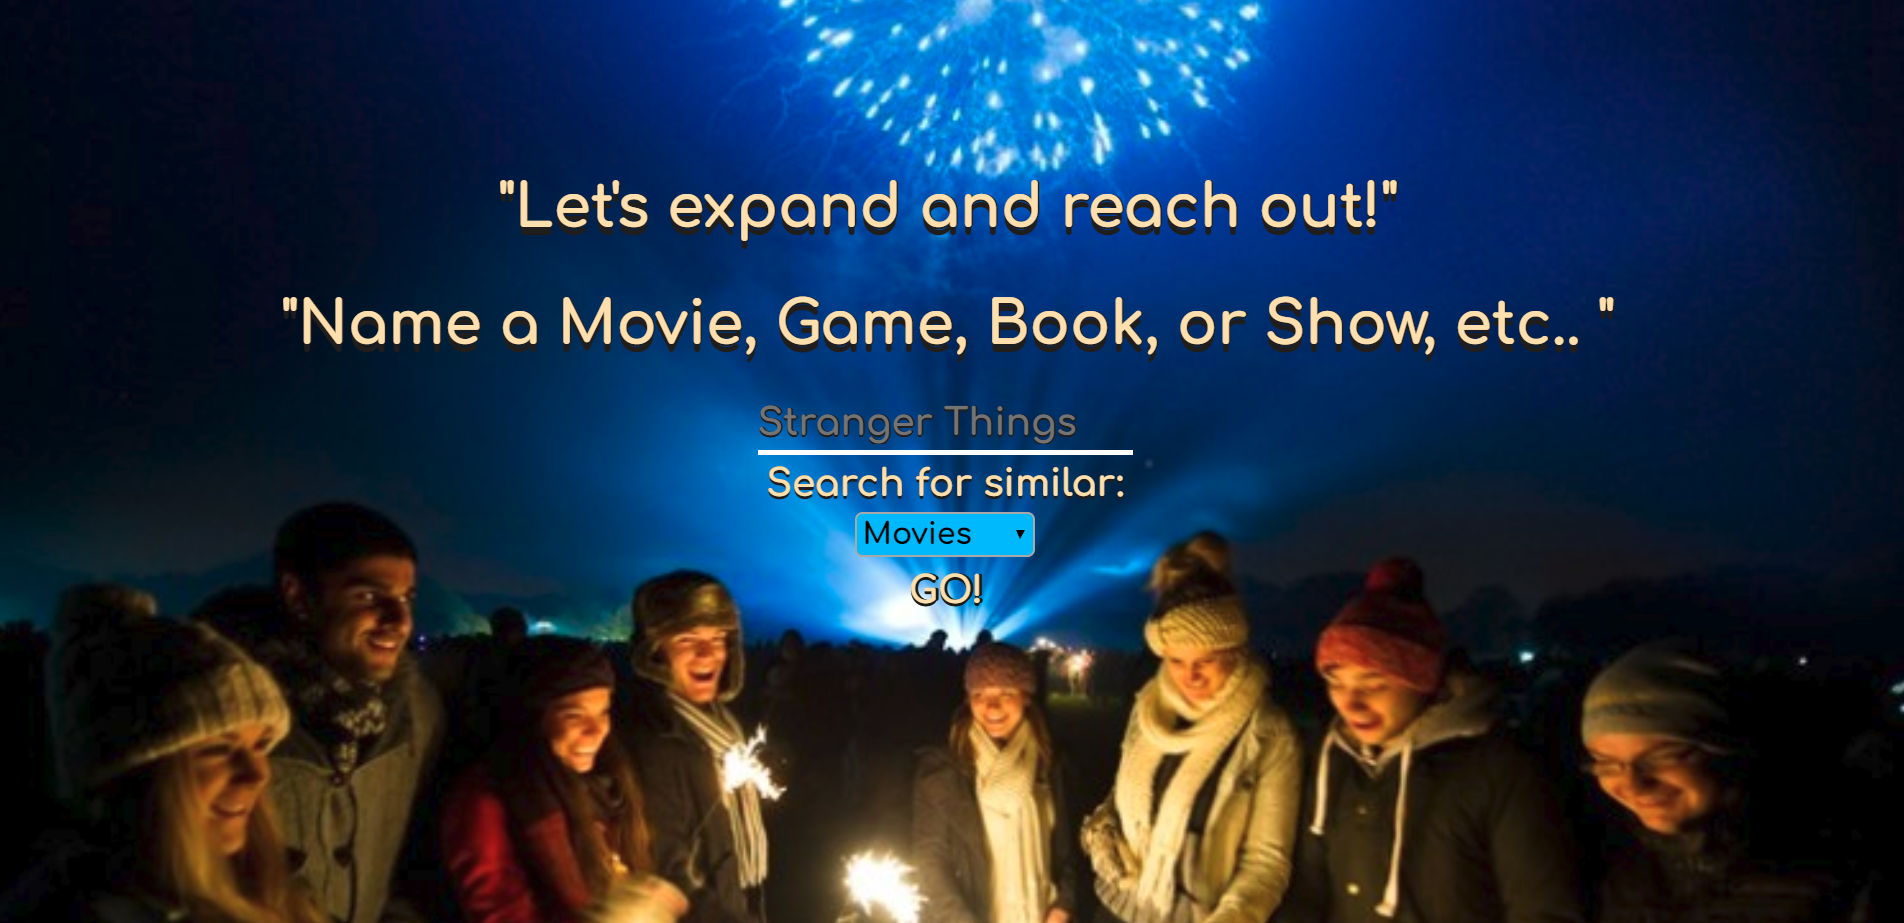
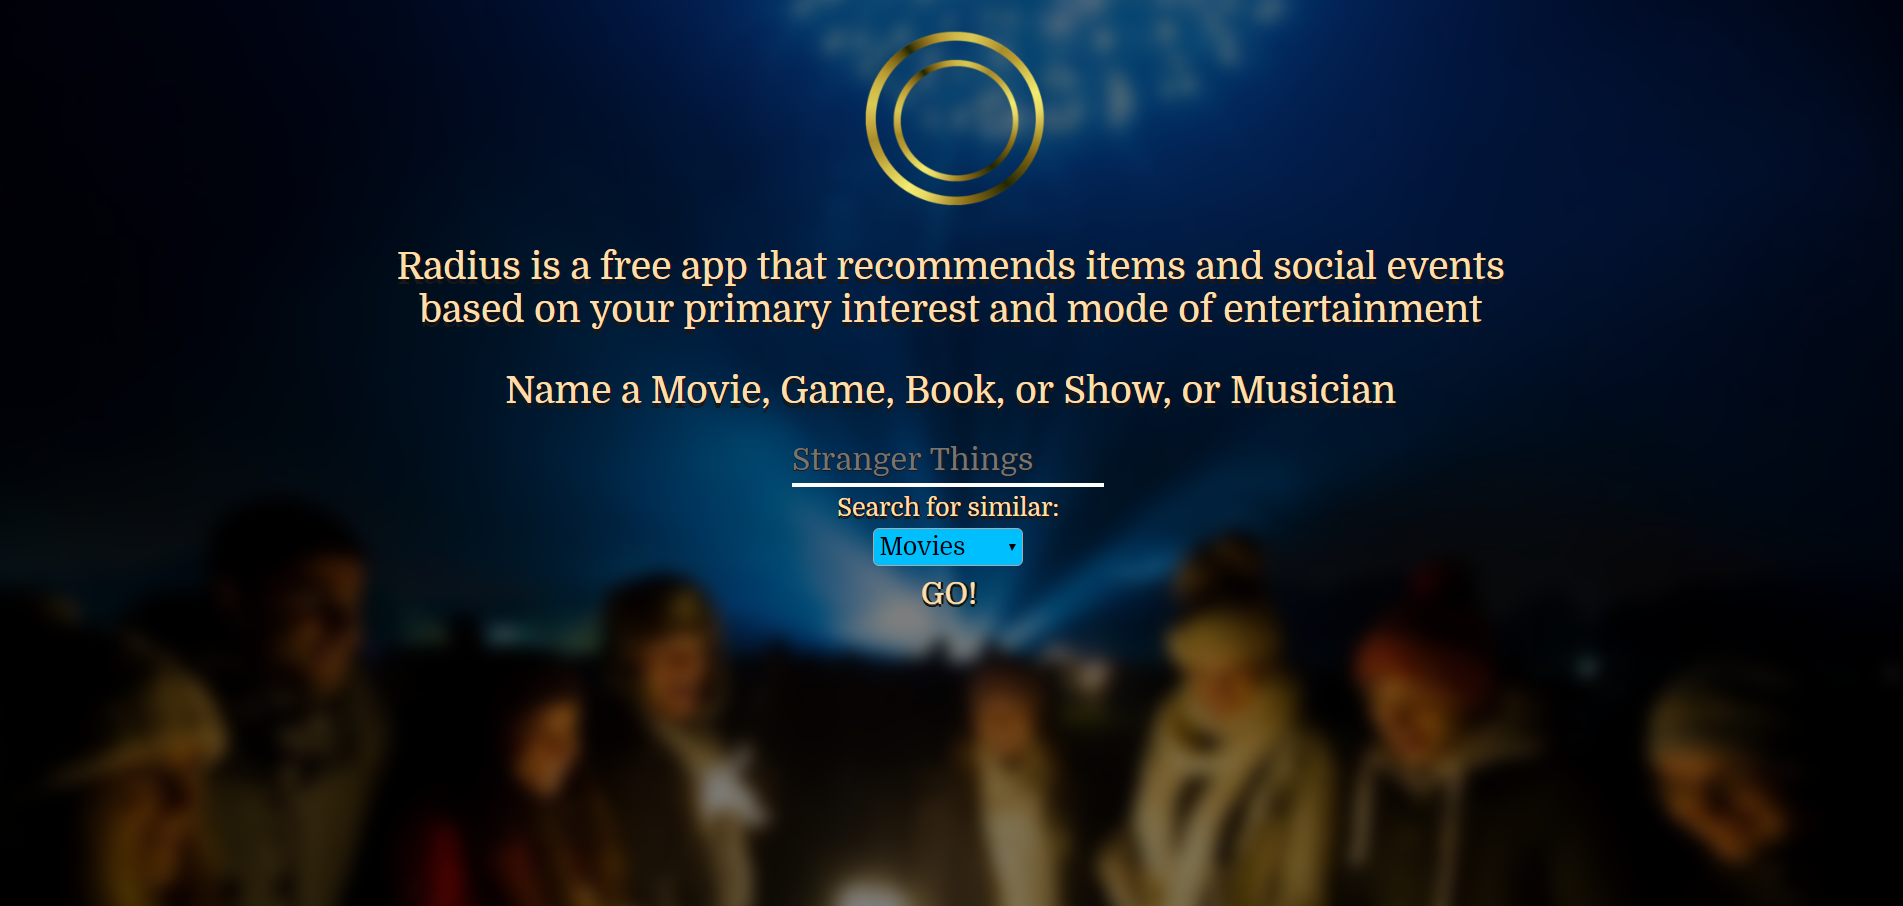
post Reviewer Refactor

diff --git a/test.css b/test.css
@@ -1,39 +1,105 @@
 html {
 	height: 100%;
-	background: url("https://www.liverpoolexpress.co.uk/wp-content/uploads/2014/10/sefton_fireworks-11-750x390.jpg") no-repeat center center fixed; 
+	/*background: url("https://www.liverpoolexpress.co.uk/wp-content/uploads/2014/10/sefton_fireworks-11-750x390.jpg") no-repeat center center fixed;
   	-webkit-background-size: cover;
   	-moz-background-size: cover;
   	-o-background-size: cover;
-  	background-size: cover;
+  	background-size: cover;*/
+
+
 }
 
 *{
 	box-sizing: border-box;
 }
 
+img {
+	width: 160px;
+	height: auto;
+}
+
+header {
+	text-align: center;
+	position: relative;
+	margin-top: 20px;
+}
+
+.back {
+	color: navajowhite;
+    border: solid white 2px;
+    background-color: dodgerblue;
+	padding: 5px 25px 5px;
+	text-decoration: none;
+}
+
 body {
-	height:100%;
 	margin:0;
+}
+
+.page {
+  	background: url('https://www.liverpoolexpress.co.uk/wp-content/uploads/2014/10/sefton_fireworks-11-750x390.jpg')no-repeat center center fixed;
+  	/*-webkit-filter: blur(5px);
+  	-moz-filter: blur(5px);
+  	-o-filter: blur(5px);
+  	-ms-filter: blur(5px);*/
+  	filter: blur(6px);
+  	position: fixed;
+  	width: 100%;
+  	height: 100%;
+  	top: 0;
+  	left: 0;
+  	z-index: -2;
+  	-webkit-background-size: cover;
+  	-moz-background-size: cover;
+  	-o-background-size: cover;
+  	transform: scale(1.1); 
+}
+
+.overlay {
+	position: fixed;
+	z-index: -1;
+	background: rgba(0,0,0,0.5);
+	width: 100%;
+  	height: 100%;
+  	top: 0;
+  	left: 0;
+  	-webkit-background-size: cover;
+  	-moz-background-size: cover;
+  	-o-background-size: cover;
+  	transform: scale(1.1); 
 }
 
 main {
 	text-align: center;
 	height:100%;
+
 }
 
 .content {
-	margin-top: 100px;
 	text-align: center;
 	display: inline-flex;
+	/*border: 4px solid powderblue;
+	border-style: groove;*/
 }
 
-h1, h2 {
-	margin-bottom: 25px;
-	font-family: 'Comfortaa', cursive;
-	font-weight: bold;
-	font-size: 35px;
+h1, h2, h3 {
+	font-family: 'Domine', serif;
+	font-weight: 300;
+	font-size: 30px;
 	color: navajowhite;
-	text-shadow: 1px 0 #1a1717, 0 1px #1a1717, 1px 0 #1a1717, 0 5px #1a1717;
+	text-shadow: 1px 0 #1a1717, 0 1px #1a1717, 1px 0 #1a1717, 0 4px #1a1717;
+	margin-bottom: 0;
+	padding-left: 10px;
+    padding-right: 10px;
+}
+
+h4 {
+	font-weight: 300;
+}
+
+form {
+	margin-top: 20px;
+	padding-bottom: 10px;
 }
 
 input {
@@ -43,7 +109,7 @@ input {
   	border: none;
   	border-bottom: 3px solid white;
   	font-size: 25px;
-	font-family: 'Comfortaa', cursive;
+	font-family: 'Domine', serif;
 	color: #ff4203;
 	margin-bottom: 5px;
 	text-shadow: 1px 0 #1a1717, 0 1px #1a1717, 1px 0 #1a1717, 0 1px #1a1717;
@@ -52,15 +118,15 @@ input {
 .question {
 	color: navajowhite;
 	font-size: 20px;
-	text-shadow: 0px 0 #1a1717, 0 0px #1a1717, 0px 0 #1a1717, 0 2px #1a1717;
-	font-family: 'Comfortaa', cursive;
+	text-shadow: 2px 0 #1a1717, 0 1px #1a1717, 1px 0 #1a1717, 0 2px #1a1717;
+	font-family: 'Domine', serif;
 }
 
 #query-type {
 	height: 30px;
   	width: 120px;
   	margin-top: 5px;
-  	font-family: 'Comfortaa', cursive;
+  	font-family: 'Domine', serif;
   	background-color: deepskyblue;
   	font-size: 20px;
   	color: black;
@@ -81,7 +147,8 @@ input {
 	transform: perspective(1px) translateZ(0);
 	transition-duration: 0.3s;
 	transition-property: box-shadow;
-	font-family: 'Comfortaa', cursive;
+	font-family: 'Domine', serif;
+	font-weight: 300;
 	padding-top: 3px;
 }
 
@@ -95,34 +162,80 @@ input {
 
 }
 
-.taste-results, .meetup-results {
-	font-family: 'Comfortaa', cursive;
-	display: inline-block;
+.q-contain {
+	font-family: 'Domine', serif;
 	color: navajowhite;
     -webkit-text-stroke-color: black;
+    text-align: center;
+    width: max-content;
+    margin: auto;
 }
 
-h3 {
-	text-shadow: 2px 0 #1a1717, 0 2px #1a1717, 2px 0 #1a1717, 0 2px #1a1717;
-}
-
-.indv-result {
+.q-sub {
 	border: solid white 2px;
 	margin: 5px;
 	background-color: black;
 	padding: 0px 5px 5px;
 }
 
-a:link {
+.taste-results, .meetup-results {
+	font-family: 'Domine', serif;
+	display: inline-block;
+	color: navajowhite;
+    -webkit-text-stroke-color: black;
+    width: 350px;
+}
+
+/*h3 {
+	text-shadow: 2px 0 #1a1717, 0 2px #1a1717, 2px 0 #1a1717, 0 2px #1a1717;
+}*/
+
+.indv-result {
+	border: solid white 2px;
+	margin: 5px;
+	background-color: black;
+	padding: 0px 5px 5px;
+	height:125px;
+	position: relative;
+}
+
+.taste-results .indv-result a {
+	left:110px;
+	bottom: 3px;
+}
+
+.meetup-results .indv-result a {
+	left:81px;
+	bottom: 3px;
+}
+
+.indv-result a:link {
 	color:dodgerblue;
+	text-decoration: none;
+	position: absolute;
+}
+
+a:visited {
+	color: red;
+}
+
+.bottom-nav {
+	text-align: center;
+	margin-top: 15px;
+	margin-bottom: 15px;
+}
+
+.bottom-nav a {
+	position: static;
+}
+
+.bottom-nav a:visited {
+	color: navajowhite;
 }
 
 @media only screen and (max-width: 768px) {
 	option {
 		font-size: 15px;
-	}
-	.content {
-		margin-top: 150px;
 	}
 	p {
 		font-size: 20px;
@@ -141,7 +254,6 @@ a:link {
 	}
 	.content {
 		display: block;
-		margin-top: 100px;
 	}
 	h3 {
 		font-size: 25px;

diff --git a/index.html b/index.html
@@ -5,18 +5,29 @@
 	<meta name="viewport" content="width=device-width, initial-scale=1">
 	<meta name="description" content="INSERT SOMETHING HERE">
 	<link href="test.css" rel="stylesheet" type="text/css">
-	<link href="https://fonts.googleapis.com/css?family=Comfortaa:700" rel="stylesheet">
+	<link href="https://fonts.googleapis.com/css?family=Arvo|Domine" rel="stylesheet">
 	<script src="https://code.jquery.com/jquery-3.2.1.min.js"></script>
 </head>
 
 <body>
-	<header roler="banner" class="col-4">
+	<div class="page">
+	</div>
+	<div class="overlay">		
+	</div>
+	<header roler="banner" class="header col-4">
+		<img src="https://i.imgur.com/CUzYjJG.png?1">
 	</header>
 	<main role="main">
+		
+		<div class="q-contain">
+				
+		</div>
+
 		<div class="content col-4">
+
 			<div class="mainContain">	
-				<h1>"Let's expand and reach out!"</h1>
-				<h2>"Name a Movie, Game, Book, or Show, etc.. "</h2>
+				<h1>Radius is a free app that recommends items and social events</br>based on your primary interest and mode of entertainment</h1>
+				<h3>Name a Movie, Game, Book, or Show, or Musician</h3>
 				<form id="search-form" role="form">
 					<label name="query"></label>
 							<input aria-label='Enter search text' type="text" id="js-input" onfocus="this.value=''" placeholder="" required /> </br>
@@ -24,7 +35,6 @@
       						<select name="dropdown" id='query-type' required>
         					<option value="movies">Movies</option>
         					<option value="books">Books</option>
-        					<option value="authors">Authors</option>
         					<option value="music">Music</option>
         					<option value="shows">Shows</option>
         					<option value="games">Games</option>
@@ -32,8 +42,15 @@
 					<button type="submit" id="submit">GO!</button>
 				</form>	
 			</div>
+
 			<div class="subContain">
+
 			</div>
+
+		</div>
+
+		<div class="bottom-nav">
+
 		</div>
 	</main>
 	<script type="text/javascript" src="index.js"></script>

diff --git a/index.js b/index.js
@@ -51,7 +51,7 @@ function err(data) {
 function renderTasteDiveResults(data) {
   $('.mainContain').html(`
     <div class="taste-results col-4">
-      <h3>Here are some similar items</h3>
+      <h4>Here are some similar items</h4>
       <div class='indv-result'>
         <p>${data.Similar.Results[0].Name}</p>
         <p>${data.Similar.Results[0].Type}</p>
@@ -106,7 +106,7 @@ function getDatafromMeetupAPI(searchTerm, qType, callback) {
 function renderMeetupResults(data) {
   $('.subContain').html(`
     <div class="meetup-results col-4">
-      <h3>Here are some groups to check out!</h3>
+      <h4>Here are some groups to check out!</h4>
       <div class='indv-result'>
         <p>${data.data[0].name}</p>
         <p>${data.data[0].city}</p>
@@ -147,12 +147,15 @@ function listenSubmit () {
     console.log(qType);
     getDatafromTasteDiveAPI(searchTerm, qType);
     getDatafromMeetupAPI(searchTerm, qType);
-    alterPage();
+    alterPage(searchTerm);
   })
 }
 
-function alterPage() {
+function alterPage(searchTerm) {
   $('.mainContain').html(" ");
+  $('.header').html(`<img src="https://i.imgur.com/CUzYjJG.png?1">`);
+  $('.bottom-nav').html(`<a class="back" href="index.html">Back to Main</a>`);
+  $('.q-contain').html(`<div class="q-sub"><p>Showing Results for "${searchTerm}"</p></div>`);
 }
 
 function tasteSuccess(data) {

diff --git a/data.js b/data.js
@@ -1,7 +1,7 @@
 const placeHolder = [
 	'Game Of Thrones',
 	'Chevelle',
-	'Kurt Vonnegut',
+	"Cat's Cradle",
 	'Overwatch',
 	'Arcade Fire',
 	'Marvel Avengers',
